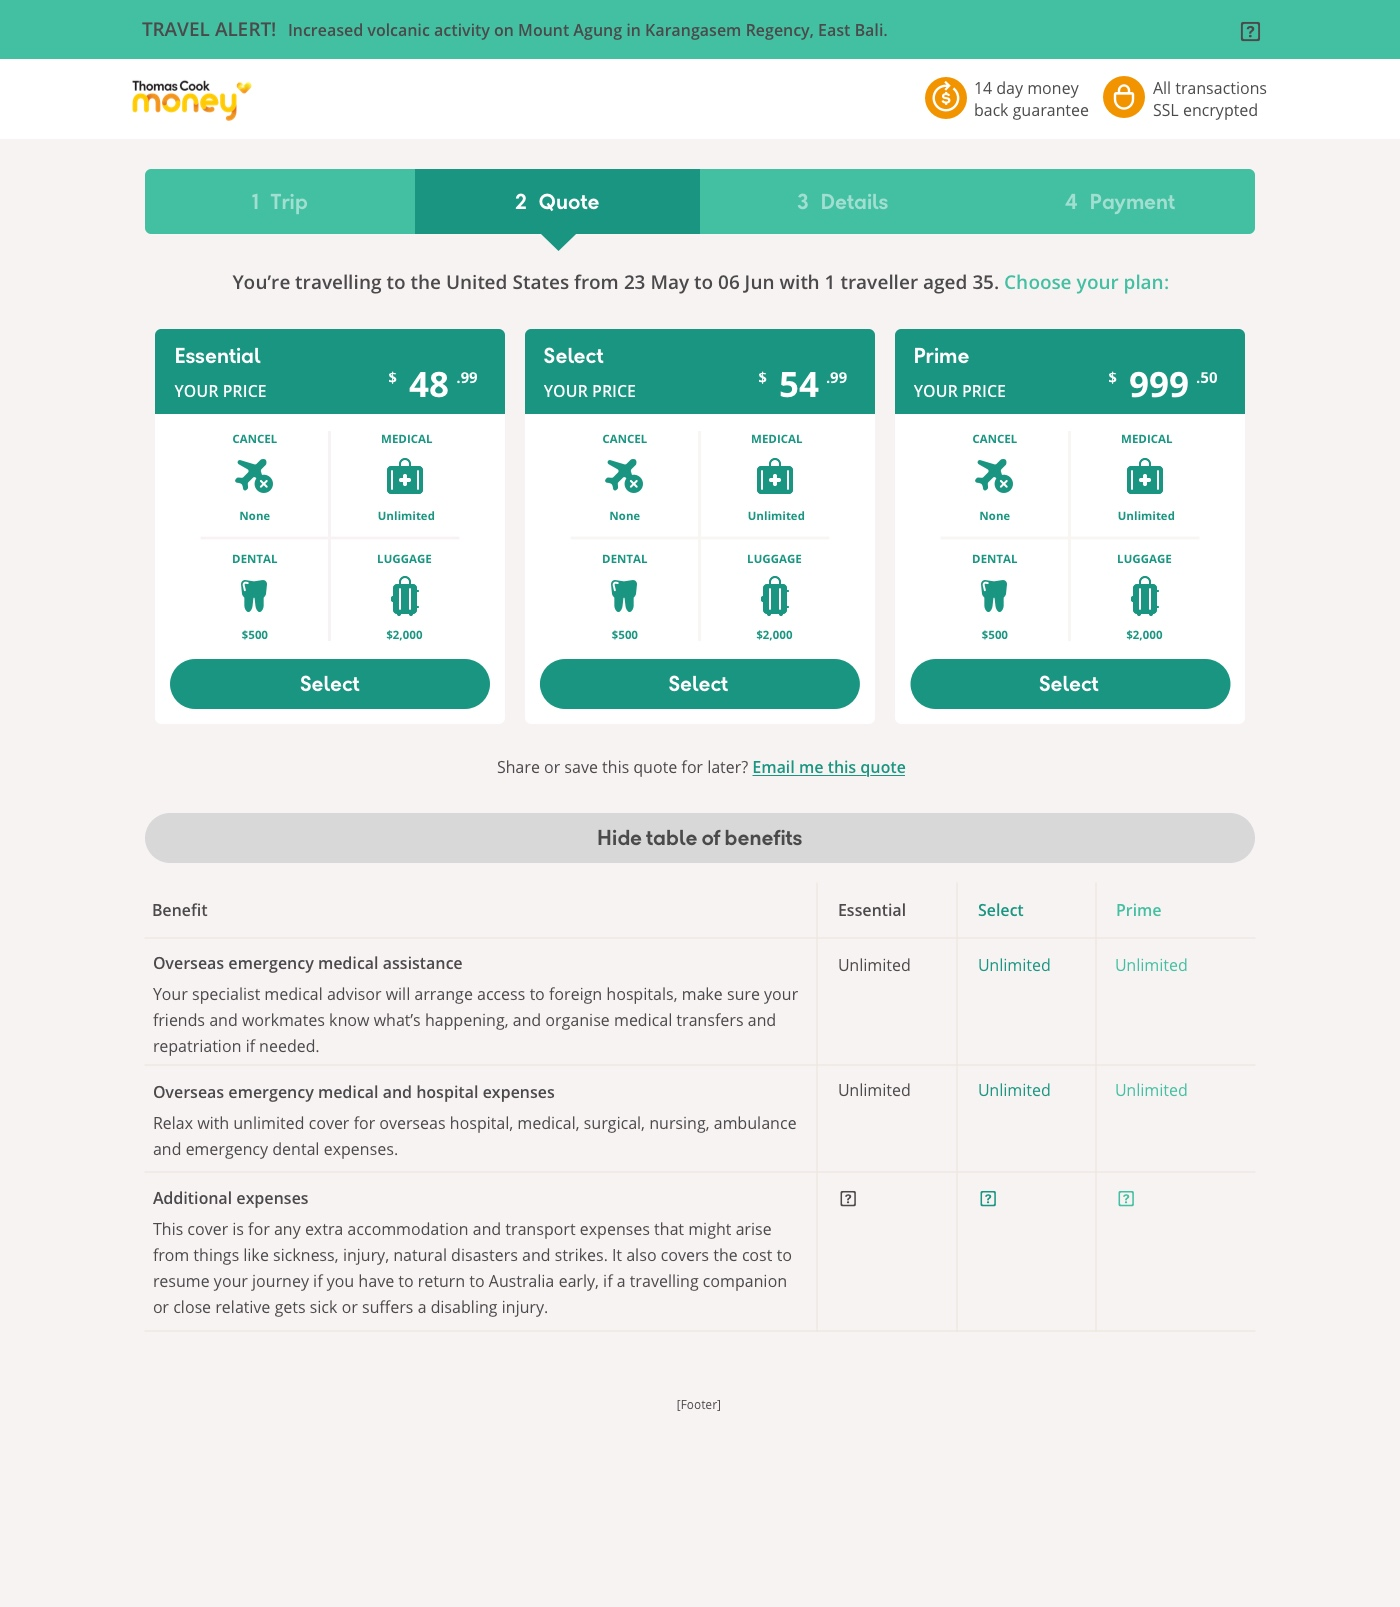
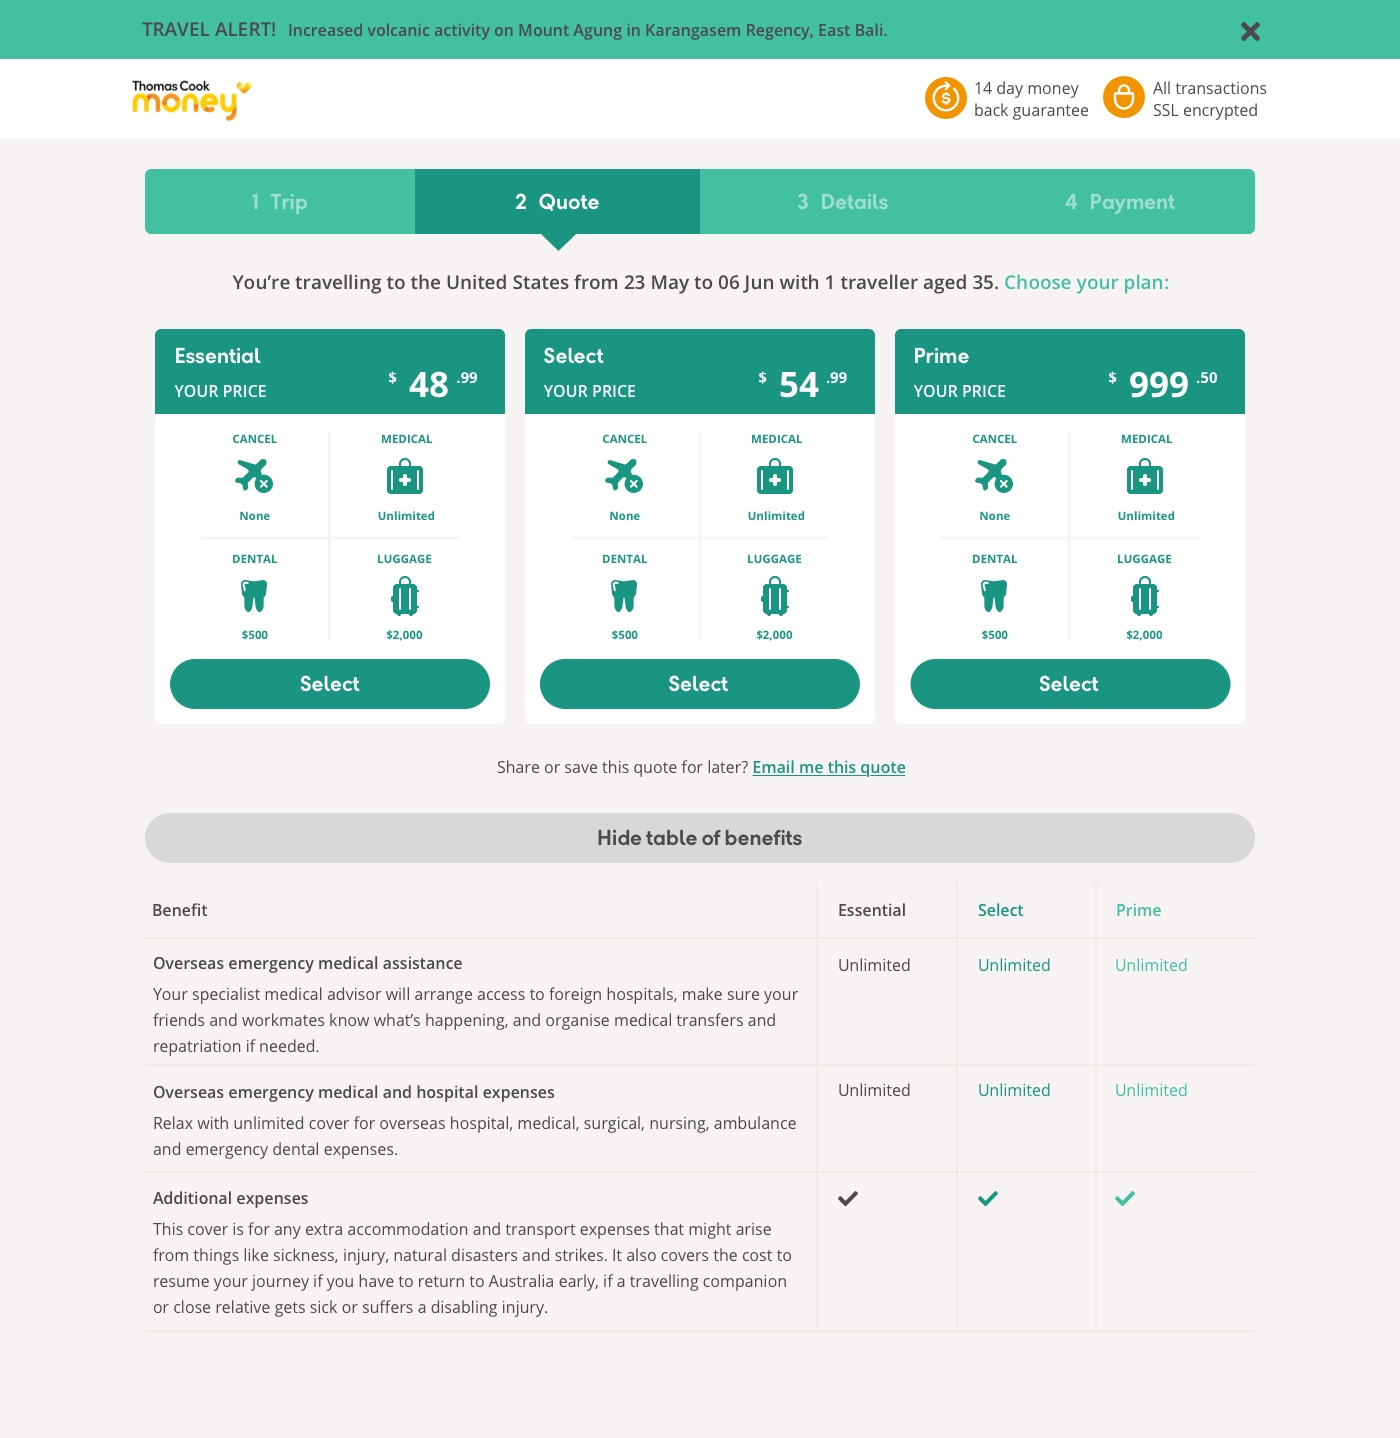
others-imgfix

diff --git a/src/pages/otherworks.js b/src/pages/otherworks.js
@@ -46,7 +46,7 @@ const otherWorks = props => (
           <HText1
             Header1="Thomas Cook: UI Design"
             Text1="
-            UI Design for the landing page of a campaign, including purchase flow elements - Consult Work, Sydney."
+            UI Design for the landing page of a campaign, including purchase flow elements and iconography - Consult Work, Sydney."
           />
           <div className="images">
             <div className="protoImg">
